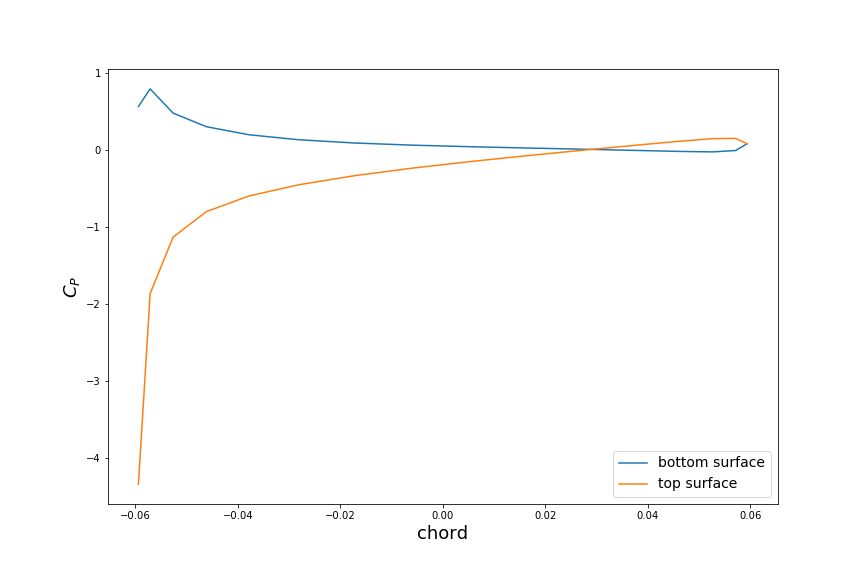
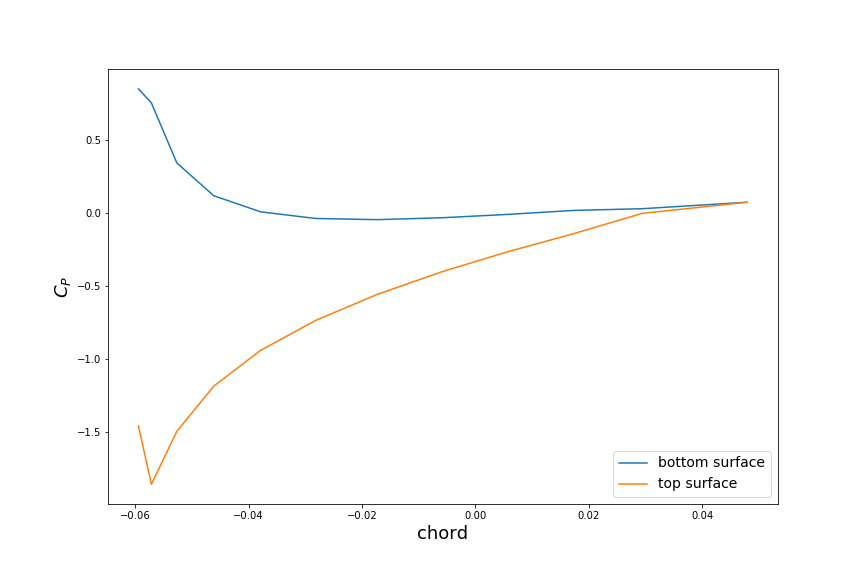
updated symmetric joukowski
Tried to rectify the pressure plot by changing the number of panels at the trailing edge.  As you remove panels at the trailing edge the  pressure plots approach similar plots in Katz and Plotkin but the CL decreases do to decreasing chord length.  I tried to  lengthen the chord then take off panels at the end but CL still is decreased do to the TE not being a cusp.

diff --git a/symmetric joukowski.py b/symmetric joukowski.py
@@ -13,11 +13,10 @@ AoA=5*np.pi/180
 Uinf=8.8
 rho=1.204
 chord=.12
-thickness=.006
+thickness=.014
 minRad=thickness/2
 majRad=chord/4
 numPanels=32
-panel_coor=np.zeros((numPanels+1,2))
 xp=np.zeros((numPanels+1,1))
 yp=np.zeros((numPanels+1,1))
 
@@ -28,9 +27,14 @@ yp[:numPanels//2+1]=-thickness*.385*(1-2*xp[:numPanels//2+1]/chord)*(1-(2*xp[:nu
 yp[numPanels//2+1:]=thickness*.385*(1-2*xp[numPanels//2+1:]/chord)*(1-(2*xp[numPanels//2+1:]/chord)**2)**(1/2)
 
 # get rid of infintesimal thickness at TE
-#xp=xp[5:-5]
-#yp=yp[5:-5]
-#numPanels=numPanels-10
+xp=xp[numPanels//8:-(numPanels//8)]
+yp=yp[numPanels//8:-(numPanels//8)]
+numPanels=numPanels-(numPanels//8)*2
+xp[-2]=xp[1]=(chord/2-(chord/2-xp[3])/2) # intermediate end panel for smoothness
+yp[1]=-thickness*.385*(1-2*xp[1]/chord)*(1-(2*xp[1]/chord)**2)**(1/2) # intermediate end panel for smoothness
+yp[-2]=-yp[1] # intermediate end panel for smoothness
+xp[0]=xp[-1]=chord/2 # intermediate end panel for smoothness
+yp[0]=yp[-1]=0 # make the trailing edge a point
 
 # collocation points
 xc=np.zeros((numPanels,1))
